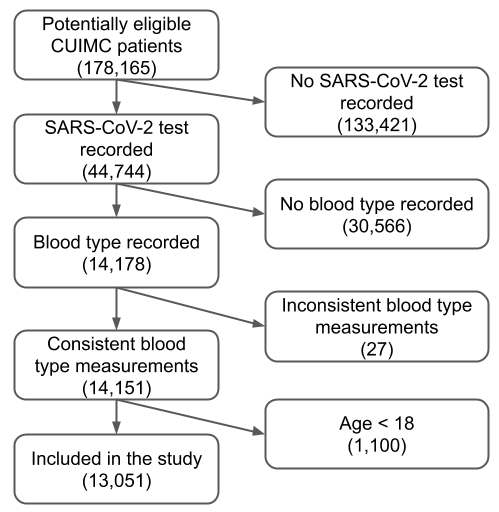
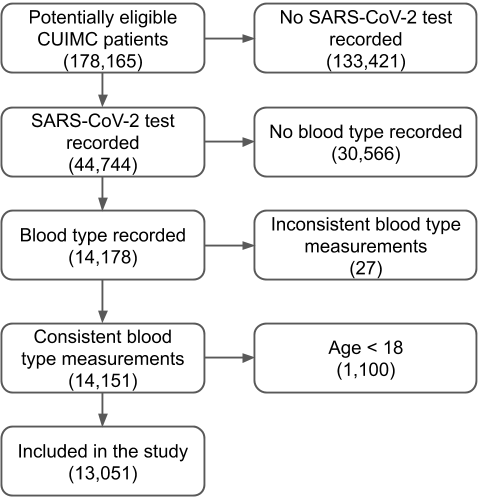
Condense files, update manuscript, figures

Changed region(s): [[0.0, 0.0, 0.9979, 1.0], [0.2807, 0.5723, 0.4054, 0.6024]]

diff --git a/content/01.main.md b/content/01.main.md
@@ -1,0 +1,234 @@
+## Abstract {.page_break_before}
+
+The rapid global spread of the novel coronavirus SARS-CoV-2 has strained existing healthcare and testing resources, making the identification and prioritization of individuals most at-risk a critical challenge.
+(**TODO**)
+We used observational healthcare data on (**...**) individuals tested for SARS-CoV-2 (682 COV+) with known blood type in the New York Presbyterian (NYP) hospital system to assess the association between ABO and Rh blood types and infection, intubation, and death.
+(**TODO**)
+
+
+## Background
+
+The novel Coronavirus disease (COVID-19, caused by the SARS-CoV-2 virus) has spread rapidly across the globe and has caused over 21.1 million confirmed infections and over 761,000 deaths worldwide as of August 17, 2020 [@url:https://www.who.int/docs/default-source/coronaviruse/situation-reports/20200817-weekly-epi-update-1.pdf].
+A number of risk factors for COVID-19 morbidity and mortality are known, including age, sex, smoking, hypertension, diabetes, and chronic cardiovascular and respiratory diseases [@doi:10/ggnxb3; @doi:10.1016/j.jinf.2020.04.021].
+
+Recent work has demonstrated an association between ABO blood types and COVID-19 risk.
+Using data from Wuhan and Shenzhen, Zhao et al. found a greater proportion A and a lower proportion of O blood types among COVID-19 patients, relative to the general populations of Wuhan and Shenzhen [@doi:10.1101/2020.03.11.20031096].
+Similarly, using a meta-analysis of data from Italy and Spain, Ellinghaus et al. [@doi:10.1056/NEJMoa2020283] found a higher risk of COVID-19 among A and a lower risk among O blood types.
+Conversely, however, they estimated lower odds of mechanical ventilation for all non-O types, though the estimated odds ratios were not statistically significant at the 5% level for this outcome.
+
+The ABO blood type trait reflects polymorphisms within the *ABO* gene.
+This gene is associated with a number of other traits, including risk factors for COVID-19 morbidity and mortality.
+For example, genome-wide association studies have associated variants within *ABO* to activity of the angiotensin converting enzyme (ACE) [@doi:10.1038/tpj.2009.70], red blood cell count, hemoglobin concentration, hematocrit, [@doi:10.1038/ng.531; @doi:10.1016/j.cell.2016.10.042; @doi:10.1016/j.ajhg.2016.11.016; @doi:10.1038/s41588-018-0047-6], von Willebrand factor [@doi:10.1161/CIRCULATIONAHA.109.869156; @doi:10.1002/ana.23838; @doi:10.1038/ejhg.2015.222; @doi:10.1161/CIRCULATIONAHA.118.034532], myocardial infarction [@doi:10/fms4dn; @doi:10.1038/ng.3396], coronary artery disease [@doi:10.1038/ng.784; @doi:10.1161/STROKEAHA.113.002707; @doi:10.1038/ng.3396; @doi:10.1038/ng.3913; @doi:10.1161/CIRCRESAHA.117.312086], ischemic stroke [@doi:10.1002/ana.23838; @doi:10.1161/STROKEAHA.113.002707; @doi:10.1038/s41588-018-0058-3], type 2 diabetes [@doi:10.2337/db16-1253; @doi:10.1038/s41467-018-04951-w; @doi:10.1038/s41588-018-0241-6], and venous thromboembolism [@doi:10.1182/blood-2008-11-190389; @doi:10.1371/journal.pone.0025581; @doi:10.1111/j.1538-7836.2012.04810.x; @doi:10.1002/gepi.21731; @doi:10.1016/j.ajhg.2015.01.019; @doi:10.1161/CIRCGENETICS.116.001643; @doi:10.1182/blood.2019000435; @doi:10.1038/s41588-019-0519-3].
+A 2012 meta-analysis found that, in addition to individual variants, a non-O blood type is among the most important genetic risk factors for venous thromboembolism [@doi:10.1055/s-0032-1315758].
+Moreover, coagulopathy is a common issue for COVID-19 patients [@doi:10.1111/jth.14817; @doi:10.1111/jth.14869; @doi:10.1111/jth.14888; @doi:10.1016/j.thromres.2020.04.024; @doi:10/ggx259; @doi:10.1055/s-0040-1710018; @doi:10.7326/M20-2003], and risk of venous thromboembolism must be carefully managed [@doi:10.1016/j.jvs.2020.05.015; @doi:10.1016/j.jvs.2020.05.015].
+
+The numerous associations between conditions and both blood type and COVID-19 provide reason to believe true associations may exist between blood type and morbidity and mortality due to COVID-19.
+In addition, previous work has identified associations between ABO blood groups and a number of different infections or disease severity following infections, including SARS-CoV-1 [@doi:10.1001/jama.293.12.1450-c], _P. falciparum_ [@doi:10/db42m2], _H. pylori_ [@doi:10.1126/science.8018146], Norwalk virus [@doi:10.1038/nm860], hepatitis B virus [@doi:10.1002/ijc.26376], and _N. gonorrhoeae_ [@doi:10.1093/infdis/133.3.329].
+
+Rh(D) phenotypes (positive and negative Rh blood types) are associated with very few diseases compared to ABO [@doi:10.1182/blood-2010-01-261859].
+Like ABO, Rh type is important for type compatibility and immune response.
+For example, hemolytic disease of the newborn is a concern when Rh(D) is mismatched between mother and offspring [@doi:10.1111/bjh.14757].
+Other studies have found evidence that Rh-positive individuals are protected against the effects of latent toxoplasmosis [@doi:10.1242/jeb.073635], though *Toxoplasma gondii* is a eukaryotic parasite [@doi:10.1016/B978-012369542-0/50005-2], not a virus like SARS-CoV-2.
+
+Within the United States, New York suffered among the worst outbreaks during the early phases of the pandemic.
+As of August 22, New York has recorded 228,144 confirmed infections and 19,014 deaths [@url:https://www1.nyc.gov/site/doh/covid/covid-19-data.page].
+We sought to understand the association between SARS-CoV-2 infection/COVID-19 and blood type using electronic health record (EHR) data from New York-Presbyterian/Columbia University Irving Medical Center (NYP/CUIMC) hospital in New York, USA.
+We compared both ABO and Rh(D) blood types, and we investigated initial infection status and two severe COVID-19 outcomes: intubation and death.
+We evaluated potential confounding due to population stratification using a multivariate analysis, and we report clinically meaningful measures of effect.
+
+## Results
+
+We determined blood types using laboratory measurements recorded in the NYP/CUIMC EHR system.
+After removing likely errors, such as individuals with contradictory blood type results, we identified 14,112 adult individuals with known blood type who received at least one SARS-CoV-2 swab test (Table 1, Supplementary Figure {@fig:flow_diagram}).
+We performed chi-squared tests of independence and found insufficient evidence to conclude that the blood group frequencies differ between SARS-CoV-2-tested and non-tested groups (Supplementary Table 1).
+Individuals were considered initially COV+ if they first tested positive on their first recorded test or within the following 96 hours.
+We evaluated associations between blood types and outcomes using three comparisons: infection prevalence among initial tests, and survival analysis for intubation and death among individuals with infections confirmed by swab test.
+We report on clinical data as of August 1, 2020.
+
+<div id='tbl:1'>
+$include content/table1.html
+</div>
+
+Table 1: Summary demographics for SARS-CoV-2-tested individuals at NYP/CUIMC, stratified by blood type.
+N is the number of individuals having the given blood type who have at least one recorded test for SARS-CoV-2.
+Age is reported as the median and interquartile range (25-75).
+Percents are reported relative to individuals having the blood type, except the N row, where percents are by blood group type (ABO or Rh) and are relative to all individuals in the study.
+
+<!-- Prevalence among initial tests -->
+
+The prevalence of initial infection was higher among A and B blood types and lower among AB types, compared with type O (Table 2, Figure {@fig:figure1}).
+Blood type frequencies vary across ancestry groups [@doi:10.1111/j.1537-2995.2004.03338.x], so we evaluated the confounding effect of ancestry by effect estimates with and without adjustment for race/ethnicity (proxies for ancestry).
+We compared infection prevalence with linear regression, using reference groups O for ABO and Rh-positive for Rh(D), and using bootstrap to compute 95% confidence intervals for each estimate [@doi:10.1016/j.jclinepi.2009.03.012].
+With adjustment for patient race and ethnicity, A and B prevalences remained higher than O, while the prevalence difference between AB and O shrank to zero.
+Rh(D) negative individuals had a 2.7% lower risk of initial infection after adjustment for ancestry, consistent with a lower risk before adjustment.
+
+Many individuals received multiple SARS-CoV-2 tests, and all recorded tests were performed in healthcare facilities that themselves pose a risk of infecting each patient.
+To avoid bias with respect to healthcare utilization, length of hospital stay, and potential in-patient infection, we evaluated the prevalence of infection among individuals only during their first encounters at NYP/CUIMC.
+In addition, to account for the considerable risk of false negative tests [@doi:10.1002/jmv.25855; @doi:10.1016/j.mayocp.2020.04.004] and the fact that providers did not necessarily rule out COVID-19 following an initial negative SARS-CoV-2 test result [@doi:10.1128/JCM.00297-20], any positive test during the first 96 hours of an encounter was considered evidence of initial infection.
+
+<!-- Survival analysis for intubation and death -->
+
+Next, we examined intubation and death using a survival framework to understand how blood type affects progression to disease outcomes over time.
+Specifically, we used the Fine-Gray model [@doi:10.1080/01621459.1999.10474144] to estimate cumulative incidence functions by blood type while accounting for competing risks and adjusting covariates.
+Death and recovery were competing events for intubation and recovery was a competing event for death.
+Cohort entry was defined as the time of a patient's first positive test result or the start of a hospital encounter if the first positive test occurred during the first 96 hours of the hospitalization.
+In accordance with CDC guidelines for returning to work [@url:https://www.cdc.gov/coronavirus/2019-ncov/hcp/return-to-work.html; @url:https://www.cdc.gov/coronavirus/2019-ncov/hcp/duration-isolation.html?CDC_AA_refVal=https%3A%2F%2Fwww.cdc.gov%2Fcoronavirus%2F2019-ncov%2Fcommunity%2Fstrategy-discontinue-isolation.html], we defined a patient as having recovered only when 10 days had passed since the patient entered the cohort and only once the patient had been discharged.
+Patient outcomes beyond August 1, 2020 were censored.
+
+Blood type A was at decreased risk of both intubation and death relative to type O, while type AB was at increased risk of both outcomes (Figure 1, Table 2).
+Conversely, we found that type B individuals were at higher risk of intubation but at lower risk of death, compared with type O.
+Individuals negative for Rh(D) were at decreased risk for both intubation and death, consistent with a lower risk of initial infection.
+Overall, we estimate between 0.1 and 8.2 percent absolute risk differences between blood groups, after adjusting for race and ethnicity.
+
+![Estimated risk differences for blood types during the period from March 10 to August 1, 2020.
+Values represent risk differences for each blood type relative to the reference groups: O for ABO and positive for Rh(D).
+Prevalence risk differences were computed using linear regression, while intubation and death were computed using the Fine-Gray model [@doi:10.1080/01621459.1999.10474144].
+Differences and 95% confidence intervals (CI) computed using Austin's method, including bootstrap [@doi:10.1016/j.jclinepi.2009.03.012].
+Adjusted models include race and ethnicity as covariates.
+](/Users/zietzm/Documents/projects/abo_covid/forest.png){#fig:figure1}
+
+<div id='tbl:1'>
+$include content/table2.html
+</div>
+
+Table 2: Effect size estimates for blood types with and without correction for race and ethnicity.
+Risks computed using linear regression (for prevalence) or the cumulative incidence from Fine-Gray models (for intubation and death).
+Risk differences computed relative to O ABO blood type and positive Rh(D) type.
+NNT indicates the number needed to treat to prevent one outcome, equal to the inverse risk difference.
+
+## Discussion
+
+Better understanding COVID-19 is imperative given the current pandemic's toll.
+We investigated whether blood type is relevant for risk of infection, intubation, and death.
+Overall, we found modest but consistent risk differences between blood types.
+After adjusting for ancestry (the relevant confounder for this analysis), estimated risk differences were larger for intubation and death outcomes than for initial infection.
+We estimate larger risk differences between Rh blood types than between ABO types, with Rh-negative individuals being at lower risk of all three outcomes.
+Type A had lower risk of intubation and death compared with types AB and O.
+Only type B had inconsistent effects between intubation and death---type B increased risk of intubation and decreased risk of death compared to type O.
+We also found consistent evidence for protective associations between Rh negative blood groups and SARS-CoV-2 infection, intubation, death.
+Overall, blood type appears to have a consistent effect, though the magnitudes of these effects on risk of intubation or death are modest, and our estimates have large uncertainties relative to their magnitudes.
+The relatively high p-values in our analysis suggest greater sample sizes or meta-analyses are needed to estimate the effects of blood type more precisely.
+
+After adjusting for ancestry by proxies of race and ethnicity, we found that all types A and B conferred greater risk of an initial positive test compared to type O, while type AB (the rarest), conferred a very small risk decrease (0.2%).
+These results are consistent with an association discovered for SARS-CoV-1, in which O blood groups were significantly less common among SARS patients [@doi:10.1001/jama.293.12.1450-c].
+Our results are also mostly consistent with the results reported by Zhao et al. [@doi:10.1101/2020.03.11.20031096], where non-O types appear to be at greater risk of infection, and with Ellinghaus et al. [@doi:10.1056/NEJMoa2020283], where non-O appear to be at greater risk of infection but at lesser risk of mechanical ventilation, though the authors note that this decreased risk is not statistically significant at the 5% level.
+Unlike Ellinghaus et al., though, we estimate slightly higher risk for types B and AB relative to O for intubation.
+
+Our results are based on data collected as part of hospital care during the course of a pandemic.
+As such, our data are highly enriched for severly-ill patients, and the absolute risk values we report are not generalizable to all SARS-CoV-2-infected individuals.
+A considerable fraction of infections are mild or asymptomatic [@doi:10.1016/j.ijid.2020.03.020; @doi:10.1038/s41591-020-0869-5; @doi:10.1001/jamanetworkopen.2020.10182; @doi:10.1016/j.cmi.2020.04.040], while our data represent predominantly the most severe cases.
+Selection bias is a fundamental limitation of our study, so all our effect estimates are conditional on presentation to the hospital.
+Nonetheless, we minimized additional selection bias by making cohort criteria for cases and controls differ only with respect to the outcome of interest.
+Moreover, we found concordance between SARS-CoV-2-tested individuals and the general population at NYP/CUIMC in terms of blood type (Supplementary table 1).
+Consequently, our results are not affected by selection bias with respect to blood type, unlike some other blood type case/control study designs---particularly those using blood donors as controls, where enrichment of type O can be expected [@doi:10.1056/NEJMoa2020283].
+
+False negatives and time delay between test administrations the return of their results both introduce noise to this analysis.
+We attempted to account for these biases by setting cohort entry at the time of first contact with the hospital, when the patient tested positive less than 96 hours thereafter.
+This definition is imperfect, as 96 hours is sufficient for an individual infected shortly after admission to test positive (albeit with probability roughly 0.33) [@doi:10.7326/M20-1495], but it is necessary to allow sufficient adjustment for the considerable time delay and retesting following false negatives.
+Another source of noise is the fact that not all intubations and deaths following a confirmed infection are related to COVID-19 (e.g. intubation during unrelated surgery).
+We defined recovery in an attempt to minimize this issue, though we recognize our definition is imperfect.
+Patients may be discharged prematurely and later return following onset of severe symptoms.
+Moreover, our 10 day cutoff for recovery is based on CDC guidelines for returning to work [@url:https://www.cdc.gov/coronavirus/2019-ncov/hcp/return-to-work.html; @url:https://www.cdc.gov/coronavirus/2019-ncov/hcp/duration-isolation.html?CDC_AA_refVal=https%3A%2F%2Fwww.cdc.gov%2Fcoronavirus%2F2019-ncov%2Fcommunity%2Fstrategy-discontinue-isolation.html], which may be refined as additional evidence becomes available.
+Further work is needed to refine the definition of recovery and to determine which outcomes may be causally linked to COVID-19.
+
+The *ABO* gene is highly polymorphic [@doi:10.1017/S0003480001008995], and blood types have considerably different distributions across ancestry groups [@doi:10.1111/j.1537-2995.2004.03338.x].
+Like ABO, Rh groups are not distributed equally across race/ethnicity groups, with enrichment of Rh-negative among white and non-Hispanic individuals (Table 1).
+In addition, negative Rh blood groups are less common, representing only 9% of individuals in our data.
+While genetic data were not available for the patients included in our study, we used self-reported race and ethnicity as imperfect proxies for genetic ancestry.
+Adjusting for these covariates had a noticeable effect on our comparison of infection prevalence, but did not have an equally relevant effect on intubation or death (Figure {@fig:figure1}, Table 2).
+This suggests that blood type may have a lesser, more confounded effect on infection prevalence than on intubation or death following confirmed infection.
+Nonetheless, race and ethnicity cannot fully capture ancestry, so the associations between blood types and COVID-19 we report may still be confounded by ancestry, even after adjustment.
+Further work is needed to better understand any potential residual confounding due to ancestry, not captured by race and ethnicity.
+
+
+## Conclusion
+
+In this study we found evidence for associations between ABO and Rh blood groups and COVID-19.
+Using data from NYP/CUIMC, we found moderately increased infection prevalence among non-O blood types and among Rh-positive individuals.
+Intubation risk was increased among AB and B types, and decreased among A and Rh-negative types.
+Risk of death was slightly increased among type AB individuals and was decreased among types A, B, and Rh-negative types.
+All estimates were adjusted for patient ancestry using self-reported race and ethnicity.
+Our results add further evidence to the previously discovered associations between blood types and COVID-19.
+
+## Acknowledgements
+
+We would like to thank Ben May and Vijendra Ramlall for assistance with data collection and periodic updates to the patient data.
+We would also like to thank Nicholas Giangreco, Undina Gisladottir, Vijendra Ramlall, and Dr. Phyllis Thangaraj for helpful discussions regarding risk factor definitions.
+MZ is funded by NIH T15 LM007079, and NPT is funded by R35GM131905.
+
+## Author contributions
+
+MZ and NPT conceived and designed the study.
+MZ carried out the statistical analysis with advice from NPT.
+(**JZ ...**)
+MZ and NPT wrote, revised, and approved the final version of the manuscript.
+
+## Competing interests
+
+The authors have no competing interests to disclose.
+(**Ask JZ about competing interests**)
+
+## Methods
+
+We identified the cohort for this study by filtering the NYP/CUIMC data warehouse for patients with a recorded SARS-CoV-2 test and those having a recorded blood type.
+Next, we removed any individual with multiple, contradictory blood type measurements, reflecting likely errors in the data.
+Finally, we excluded individuals below age 18 from our analysis.
+More detail about the EHR data used for these definitions is available in the supplementary methods.
+
+We sought to estimate total effects of blood type on COVID-19 outcomes.
+Using a graphical model (Supplementary Figure 2), we identified ancestry as the only confounding variable for an estimate of total effect, since blood type is genetic and varies across ancestry groups.
+As genetic data were not available, we used self-reported race and ethnicity as proxies for ancestry.
+We were unable to identify a method to alleviate selection bias in our data, so the effects we report are conditional on presence at NYP/CUIMC.
+
+We considered three outcomes: initial infection, intubation, and death.
+Our evaluation of initial infection sought to assess the infection prevalence differences among individuals presenting to the hospital, not those potentially infected at the hospital or long after their first test.
+Due to the high risk for false negatives [@doi:10.1002/jmv.25855; @doi:10.1016/j.mayocp.2020.04.004], we considered any positive test less than 96 hours after the start of an encounter as evidence of initial infection.
+Initial infection risk differences between blood types were assessed using linear regression, and race/ethnicity were adjusted by including them as covariates.
+We used Austin's bootstrap method to compute 95% confidence intervals for all risk estimates [@doi:10.1016/j.jclinepi.2009.03.012], using 1000 bootstrap iterations.
+
+We assessed intubation and death as severe outcomes of COVID-19, and evaluated blood type effects using survival analysis.
+Individuals entered the at-risk cohort either at the time of their first positive test result, or at the time of first contact with the hospital when the first positive test occurred within 96 hours of the start of a hospital encounter.
+We defined a patient as recovered only after being discharged from the hospital and only once 10 days have passed since cohort entry.
+Death and recovery are competing risks for intubation, and recovery is a competing risk for death.
+Finally, outcomes beyond August 1 were censored, as this was the last date for which we have data available.
+Intubation and death were assessed using Fine-Gray models, which can estimate cumulative incidences.
+As before, race and ethnicity were adjusted by including them as covariates, and confidence intervals were computed with 1000 bootstrap iterations.
+
+This study is approved by the IRB (#AAAL0601).
+We conducted our analyses using the R language, using the `cmprsk` package [@doi:10.1214/aos/1176350951] implementation of the Fine-Gray model.
+The manuscript was written [openly on GitHub](https://github.com/zietzm/abo_covid) using Manubot [@doi:10.1371/journal.pcbi.1007128].
+
+## Data availability
+
+While our data from NYP/CUIMC are protected by HIPAA and cannot be released, we have made all code used for our analysis available at <https://github.com/zietzm/abo_covid_analysis>.
+
+## Code availability
+
+We have made all code used for our analysis available at <https://github.com/zietzm/abo_covid_analysis>.
+
+## Supplemental information
+
+![Flow diagram of inclusion and exclusion criteria for the cohort used.
+Numbers indicate the number of patients in each group.
+Groups on the right were excluded.
+](images/flow_diagram.png){#fig:flow_diagram tag="S1" width="5in"}
+
+![Graphical model of the system under investigation.
+We sought to estimate the total effects of blood type on the COVID-19 outcomes under investigation.
+Confounding can be controlled by adjusting for ancestry.
+Selection bias cannot be controlled fully, and as a result, our estimates are conditional on presentation to the hospital during the COVID-19 pandemic.](images/graphical_model.png){#fig:graphical_model tag="S2" width="5in"}
+
+
+<div id='tbl:S1'>
+$include content/table_covid_vs_general.html
+</div>
+
+Table: Chi-squared tests to evaluate whether the dependence between blood type and having received a test for SARS-CoV-2.
+
+## Electronic health record definitions
+
+Blood group was determined using laboratory measurements coded using descendant concepts of [LOINC LP36683-8 (ABO and Rh group)](https://athena.ohdsi.org/search-terms/terms/40776356).
+Individuals with contradictory measurements were excluded.
+Intubation was assessed using completed procedures having the procedure description, "Intubation."
+We grouped race into five categories and ethnicity into four. Specifically, we considered only Asian, Black/African-American, and White, categorizing other listed races (all of which were small minorities) as 'Other', and missing or declined race as 'Missing'.
+Ethnicity was grouped as either Hispanic or non-Hispanic.
